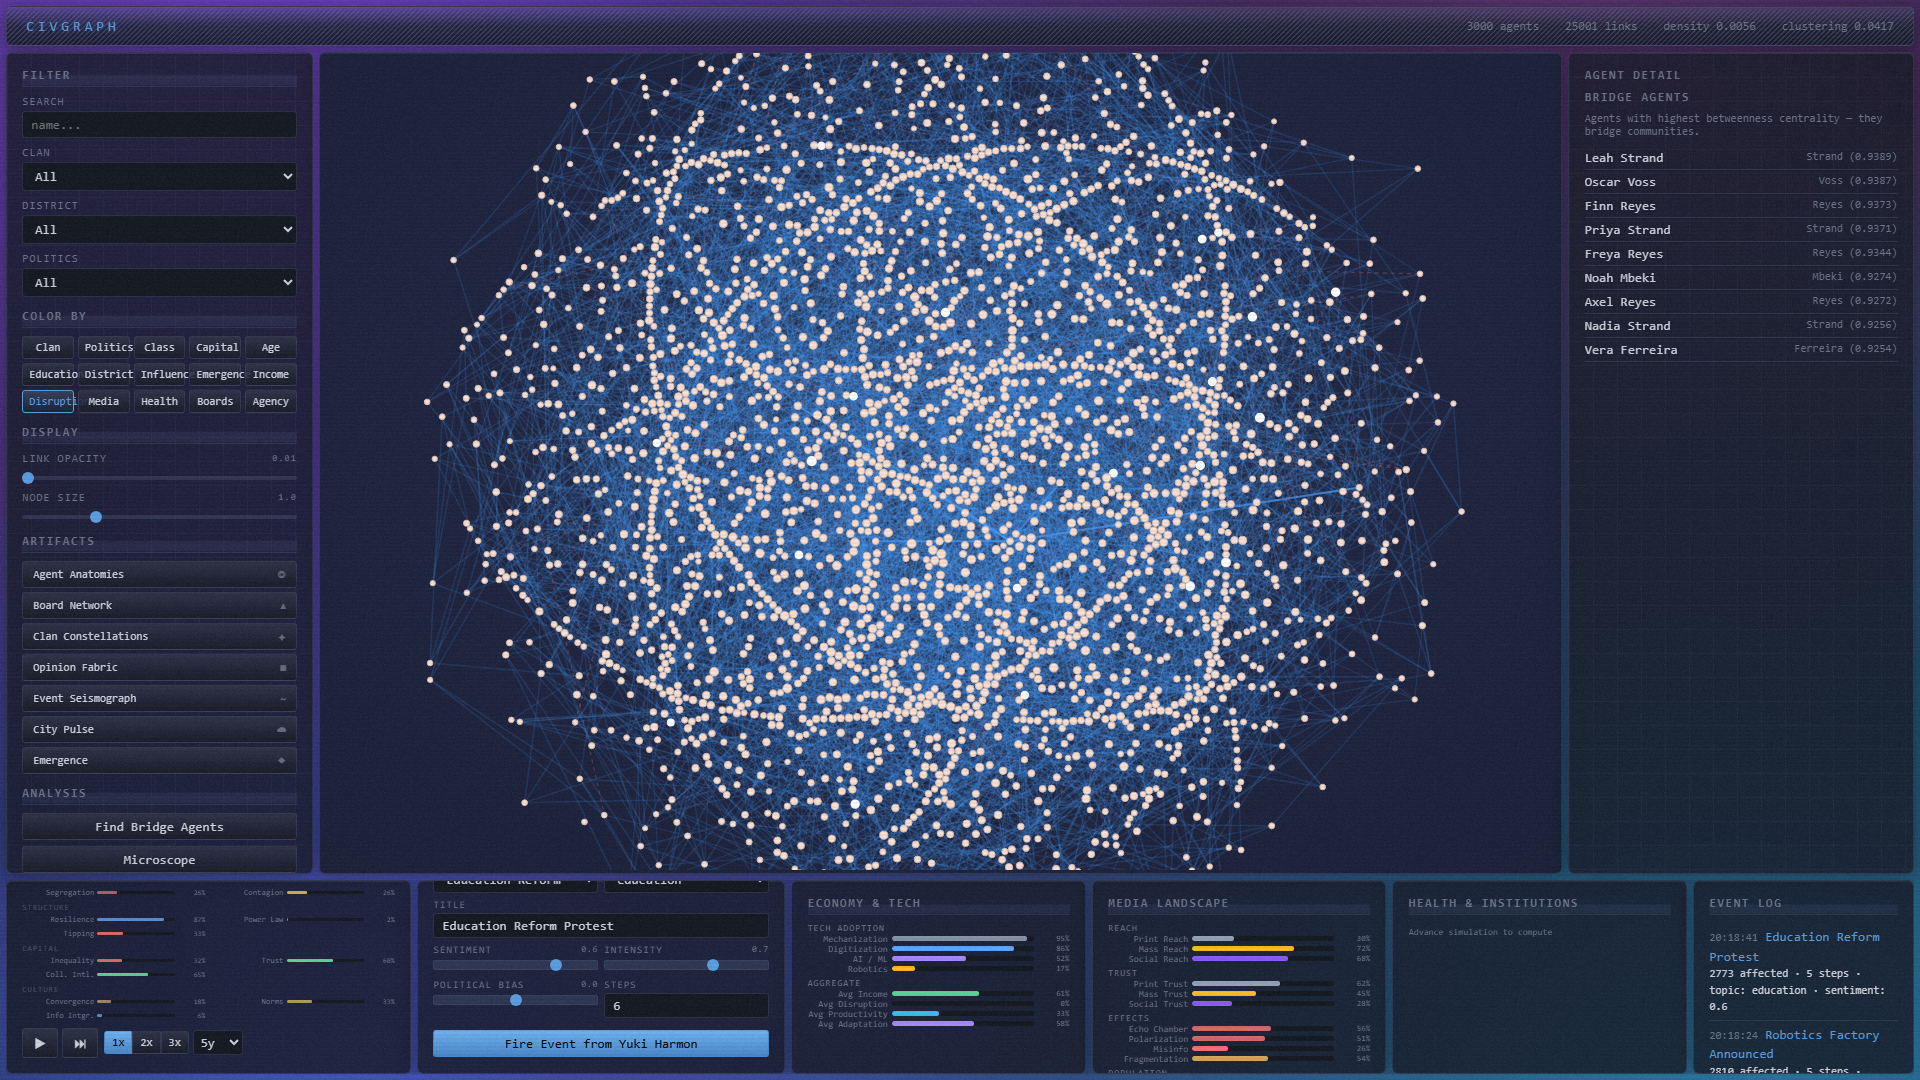
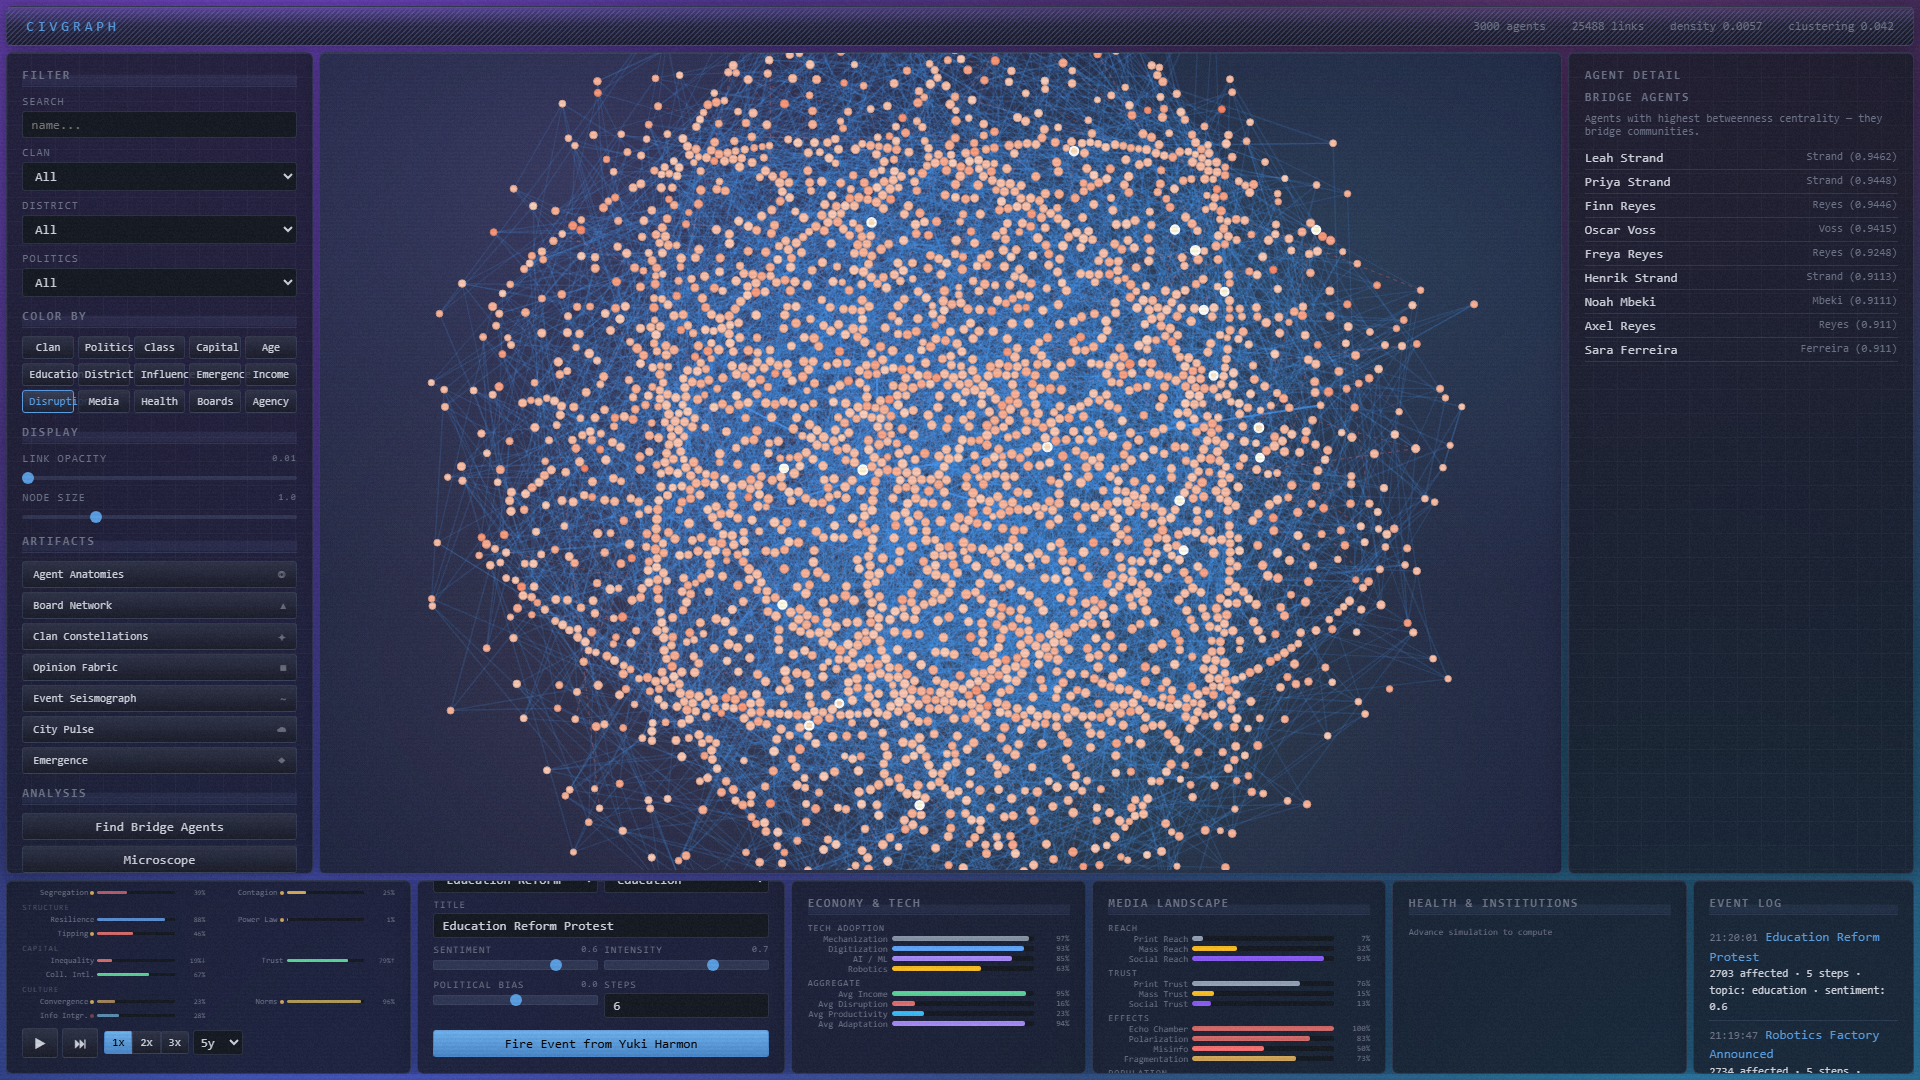
Colorful graph gradient, aligned microscope visuals
Add multi-point radial gradient to graph container (purple, teal,
green, rose washes over navy base). Restyle microscope window to
match main app: gradient-bg texture, noise/scanline overlays,
glassmorphic panels, brushed-metal header, consistent buttons.

diff --git a/static/microscope.html b/static/microscope.html
@@ -6,38 +6,67 @@
   <title>CivGraph Microscope</title>
   <style>
     :root {
-      --bg: #080810;
-      --surface: #101018;
-      --border: #1a1a28;
-      --text: #c4c4d0;
-      --text-dim: #5e5e72;
-      --accent: #5a8fd4;
-      --accent2: #d46b6b;
+      --bg: #141822;
+      --surface: rgba(22, 26, 38, 0.82);
+      --surface-solid: #181c2a;
+      --border: rgba(70, 80, 110, 0.45);
+      --border-glow: rgba(100, 160, 230, 0.18);
+      --text: #d0d4de;
+      --text-dim: #6e7488;
+      --accent: #5a9fe4;
+      --accent2: #e07070;
       --accent3: #5ad49a;
       --font: "SF Mono", "Fira Code", "JetBrains Mono", "Consolas", monospace;
+      --panel-radius: 6px;
+      --panel-shadow:
+        0 2px 20px rgba(0, 0, 0, 0.4),
+        0 0 1px rgba(100, 160, 230, 0.25),
+        inset 0 1px 0 rgba(255, 255, 255, 0.06);
     }
 
     * { margin: 0; padding: 0; box-sizing: border-box; }
 
     body {
       font-family: var(--font);
-      background: var(--bg);
+      background: url("/static/textures/gradient-bg.png") center / cover fixed no-repeat;
       color: var(--text);
       height: 100vh;
       overflow: hidden;
       font-size: 11px;
     }
 
+    /* Film grain + scanline overlay */
+    body::after {
+      content: "";
+      position: fixed;
+      inset: 0;
+      background:
+        url("/static/textures/noise.png"),
+        url("/static/textures/scanlines.png");
+      pointer-events: none;
+      z-index: 9999;
+    }
+
     #microscope {
       display: grid;
       grid-template-rows: auto auto 1fr auto;
       height: 100vh;
+      gap: 4px;
+      padding: 4px;
     }
 
     /* ── Header ────────────────────────────── */
     #header {
-      background: var(--surface);
-      border-bottom: 1px solid var(--border);
+      background:
+        url("/static/textures/title-deco.png"),
+        url("/static/textures/brushed-metal.png"),
+        linear-gradient(180deg, rgba(60, 70, 100, 0.3) 0%, rgba(22, 26, 38, 0.85) 50%, rgba(18, 20, 32, 0.9) 100%);
+      backdrop-filter: blur(12px);
+      -webkit-backdrop-filter: blur(12px);
+      border: 1px solid var(--border);
+      border-top: 1px solid rgba(120, 140, 180, 0.25);
+      border-radius: var(--panel-radius);
+      box-shadow: var(--panel-shadow);
       padding: 8px 16px;
       display: flex;
       align-items: center;
@@ -46,11 +75,11 @@
 
     #header h1 {
       font-size: 12px;
-      font-weight: 400;
-      letter-spacing: 3px;
+      font-weight: 500;
+      letter-spacing: 4px;
       text-transform: uppercase;
       color: var(--accent);
-      opacity: 0.85;
+      text-shadow: 0 0 8px rgba(90, 159, 228, 0.4);
     }
 
     #header .status {
@@ -60,8 +89,14 @@
 
     /* ── Summary bar ───────────────────────── */
     #summary {
-      background: var(--surface);
-      border-bottom: 1px solid var(--border);
+      background:
+        url("/static/textures/grid.png"),
+        var(--surface);
+      backdrop-filter: blur(12px);
+      -webkit-backdrop-filter: blur(12px);
+      border: 1px solid var(--border);
+      border-radius: var(--panel-radius);
+      box-shadow: var(--panel-shadow);
       padding: 6px 16px;
       display: flex;
       gap: 12px;
@@ -87,7 +122,7 @@
 
     .summary-chip.active {
       border-color: var(--accent);
-      background: rgba(90, 143, 212, 0.1);
+      background: rgba(90, 159, 228, 0.1);
     }
 
     .summary-dot {
@@ -109,7 +144,9 @@
     /* ── Filter bar ────────────────────────── */
     #filters {
       background: var(--surface);
-      border-bottom: 1px solid var(--border);
+      backdrop-filter: blur(12px);
+      border: 1px solid var(--border);
+      border-radius: var(--panel-radius);
       padding: 4px 16px;
       display: flex;
       gap: 8px;
@@ -133,9 +170,10 @@
     #filters label { color: var(--text-dim); }
 
     .btn {
-      padding: 3px 10px;
-      background: var(--bg);
+      padding: 4px 12px;
+      background: linear-gradient(180deg, rgba(50, 55, 75, 0.8) 0%, rgba(25, 28, 40, 0.9) 100%);
       border: 1px solid var(--border);
+      border-top-color: rgba(100, 110, 140, 0.35);
       color: var(--text);
       border-radius: 3px;
       cursor: pointer;
@@ -143,11 +181,17 @@
       font-size: 10px;
       transition: all 0.15s;
     }
-    .btn:hover { border-color: var(--accent); color: var(--accent); }
-    .btn-primary { background: var(--accent); border-color: var(--accent); color: #000; }
+    .btn:hover { border-color: var(--accent); color: var(--accent); background: linear-gradient(180deg, rgba(60, 70, 95, 0.85) 0%, rgba(30, 34, 50, 0.95) 100%); }
+    .btn-primary { background: linear-gradient(180deg, #6db3f0 0%, #4a88cc 100%); border-color: #4a88cc; border-top-color: rgba(160, 200, 255, 0.4); color: #000; }
 
     /* ── Transaction stream ────────────────── */
     #stream {
+      background: var(--surface);
+      backdrop-filter: blur(12px);
+      -webkit-backdrop-filter: blur(12px);
+      border: 1px solid var(--border);
+      border-radius: var(--panel-radius);
+      box-shadow: var(--panel-shadow);
       overflow-y: auto;
       padding: 4px 0;
     }
@@ -157,7 +201,7 @@
       grid-template-columns: 32px 90px 1fr 60px;
       gap: 8px;
       padding: 3px 16px;
-      border-bottom: 1px solid rgba(26, 26, 40, 0.5);
+      border-bottom: 1px solid rgba(70, 80, 110, 0.15);
       align-items: center;
       font-size: 10px;
       animation: fadeIn 0.3s ease;
@@ -166,7 +210,7 @@
     }
 
     .tx-row:hover {
-      background: rgba(90, 143, 212, 0.05);
+      background: rgba(90, 159, 228, 0.06);
     }
 
     @keyframes fadeIn {
@@ -227,8 +271,14 @@
 
     /* ── Footer ────────────────────────────── */
     #footer {
-      background: var(--surface);
-      border-top: 1px solid var(--border);
+      background:
+        url("/static/textures/grid.png"),
+        var(--surface);
+      backdrop-filter: blur(12px);
+      -webkit-backdrop-filter: blur(12px);
+      border: 1px solid var(--border);
+      border-radius: var(--panel-radius);
+      box-shadow: var(--panel-shadow);
       padding: 6px 16px;
       display: flex;
       justify-content: space-between;
@@ -251,7 +301,7 @@
     /* ── Scrollbar ──────────────────────────── */
     ::-webkit-scrollbar { width: 4px; }
     ::-webkit-scrollbar-track { background: transparent; }
-    ::-webkit-scrollbar-thumb { background: var(--border); border-radius: 2px; }
+    ::-webkit-scrollbar-thumb { background: rgba(70, 80, 110, 0.45); border-radius: 2px; }
   </style>
 </head>
 <body>

diff --git a/static/style.css b/static/style.css
@@ -298,7 +298,12 @@ header .stats span {
 /* ── Graph canvas ───────────────────────────────── */
 
 #graph-container {
-  background: radial-gradient(ellipse at 50% 45%, #282e48 0%, #1e2440 55%, #1a2038 100%);
+  background:
+    radial-gradient(ellipse at 20% 15%, rgba(140, 120, 210, 0.18) 0%, transparent 45%),
+    radial-gradient(ellipse at 80% 25%, rgba(80, 170, 200, 0.14) 0%, transparent 40%),
+    radial-gradient(ellipse at 65% 85%, rgba(100, 200, 160, 0.10) 0%, transparent 40%),
+    radial-gradient(ellipse at 30% 75%, rgba(200, 130, 170, 0.10) 0%, transparent 40%),
+    radial-gradient(ellipse at 50% 50%, #2e3550 0%, #262d48 50%, #1e2440 100%);
   border: 1px solid var(--border);
   border-radius: var(--panel-radius);
   box-shadow: var(--panel-shadow);
